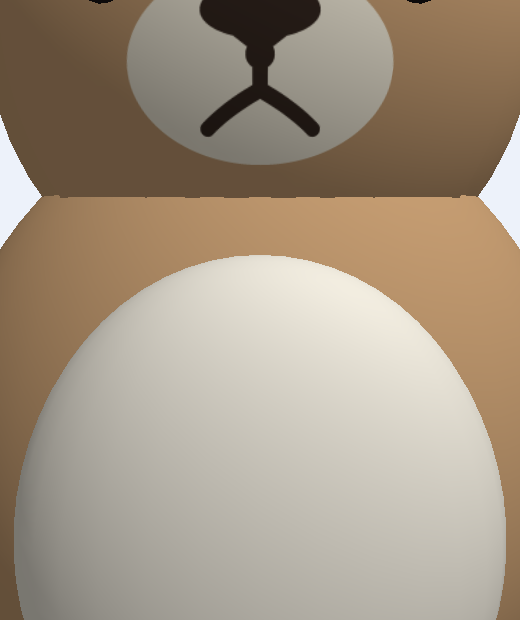
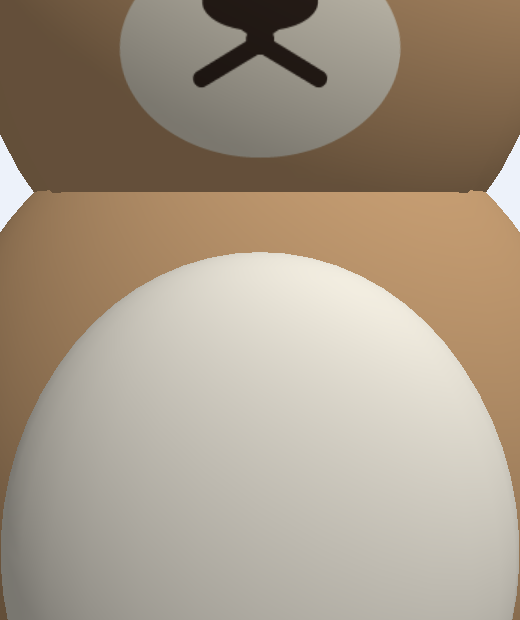
입을 컴팩트하게 + 눈 더 작게
- 코와 입 사이 긴 수직선 제거 -> 코 바로 아래에서 갈라지는 짧은 人 입
  (길어서 우울해 보이던 문제 해결)
- 코를 약간 작게, 입 획도 짧게
- 눈 반경 0.135 -> 0.11 로 축소

diff --git a/tools/make_face_texture.py b/tools/make_face_texture.py
@@ -88,18 +88,16 @@ CX = 256
 # 흰 cream 타원 (작고 가로로 넓게)
 fill_ellipse(CX, 292, 106, 76, CREAM)
 
-# 코: 둥근 역삼각형(위 넓고 아래로 좁아지며 끝이 둥근)
-fill_ellipse(CX, 250, 44, 21, DARK)
-fill_tri((CX - 44, 250), (CX + 44, 250), (CX, 284), DARK)
-stamp(CX, 282, 11, DARK)
+# 코: 작은 둥근 역삼각형(아래로 살짝 뾰족, 끝이 둥근)
+fill_ellipse(CX, 256, 40, 20, DARK)
+fill_tri((CX - 40, 256), (CX + 40, 256), (CX, 284), DARK)
+stamp(CX, 282, 10, DARK)
 
-# 입: 원본은 ∪∪ 가 아니라 코에서 내려와 좌우로 갈라지는 Y(人) 모양.
-SPLIT = (CX, 308)
-# 코 아래 -> 갈림점 짧은 수직선
-stroke_path([(CX, y) for y in range(283, 309)], 6, DARK)
-# 갈림점에서 좌우로 벌어지는 두 획 (살짝 바깥으로 휘게)
-stroke_path(qbez(SPLIT, (CX - 26, 322), (CX - 44, 338)), 6, DARK)
-stroke_path(qbez(SPLIT, (CX + 26, 322), (CX + 44, 338)), 6, DARK)
+# 입: 코 끝 바로 아래에서 좌우로 갈라지는 짧은 두 획(人).
+# 긴 수직선 없이 코에 바로 붙어 컴팩트하게 -> 우울해 보이지 않게.
+SPLIT = (CX, 284)
+stroke_path(qbez(SPLIT, (CX - 28, 300), (CX - 44, 308)), 6, DARK)
+stroke_path(qbez(SPLIT, (CX + 28, 300), (CX + 44, 308)), 6, DARK)
 
 # ---------------- SS 배 -> 512 다운샘플(박스 평균) ----------------
 out = bytearray(W * H * 3)

diff --git a/src/character/Head.cpp b/src/character/Head.cpp
@@ -58,7 +58,7 @@ void renderEye() {
     // 머리 표면에 납작하게 박힌 점(z 로 눌러 평평하게, 광택 X). 일러스트처럼 큼.
     glPushMatrix();
     glScalef(1.0f, 1.0f, 0.5f);   // 원형(원본처럼 동그란 눈)
-    glutSolidSphere(0.135f, 28, 28);
+    glutSolidSphere(0.11f, 28, 28);
     glPopMatrix();
 }
 